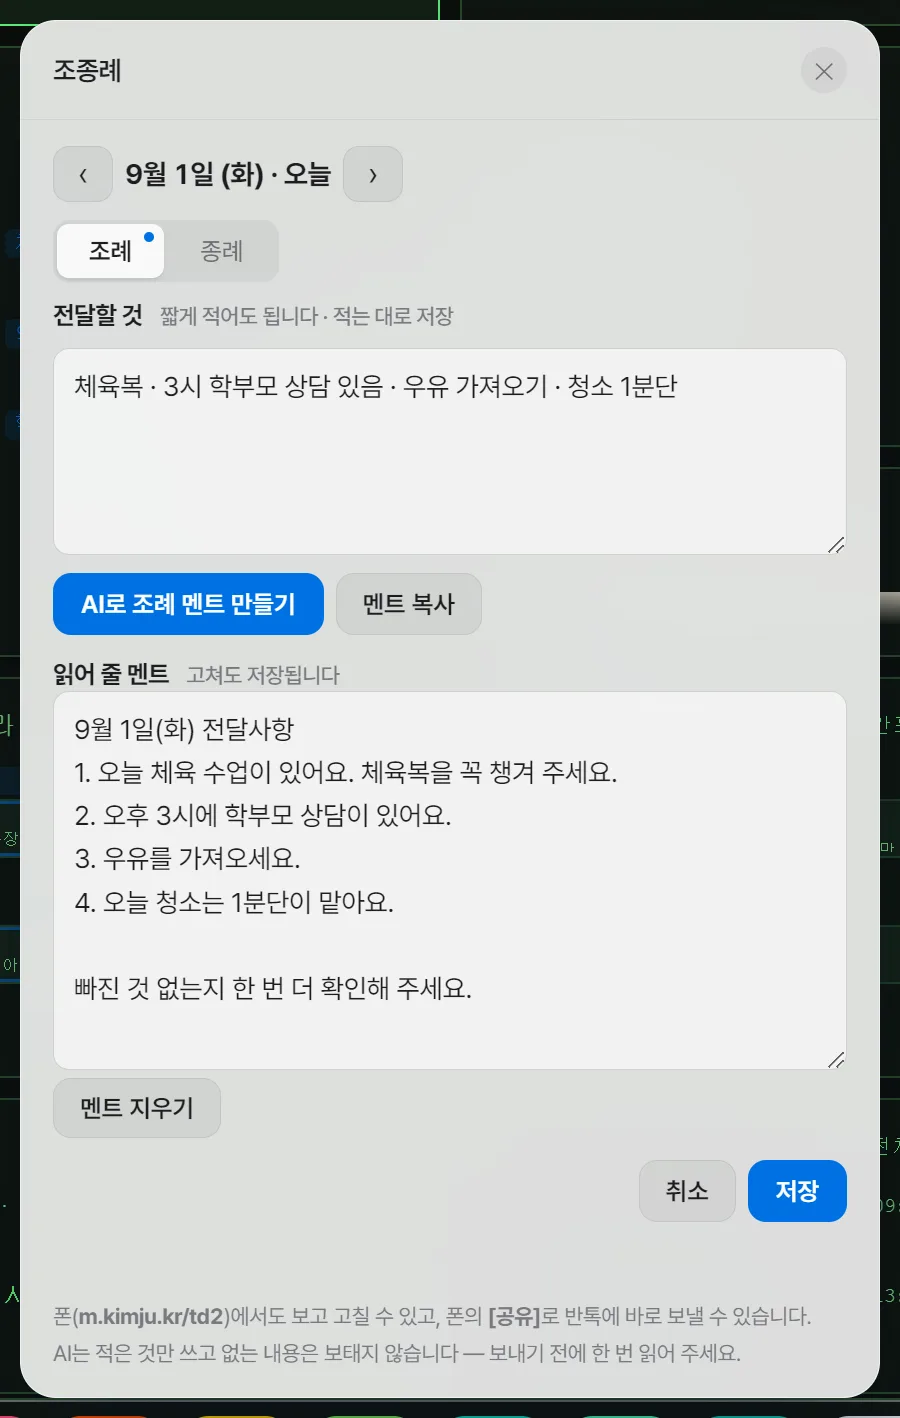
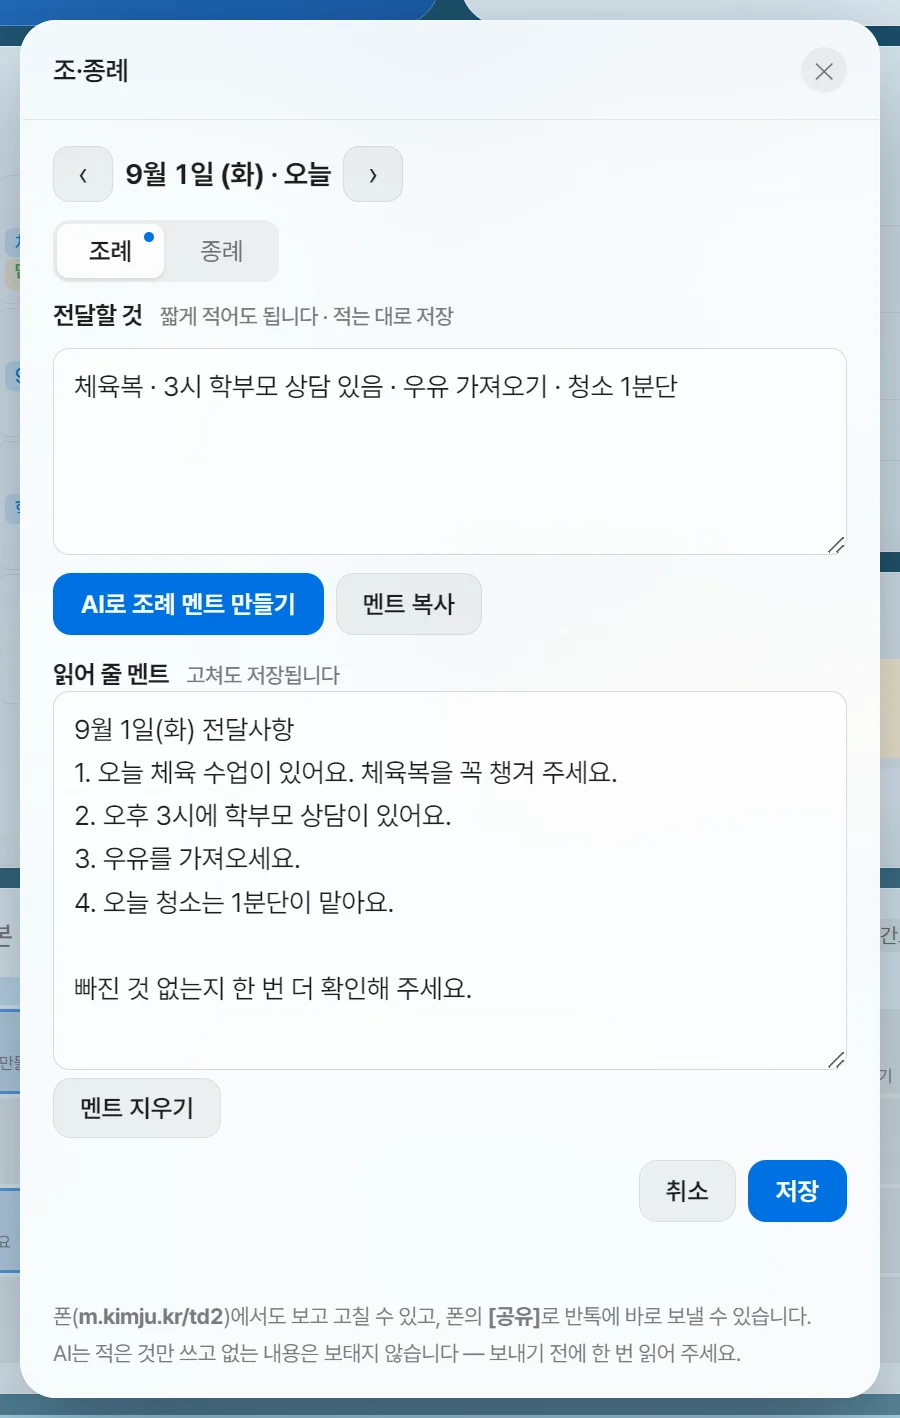
td2 설명서 — 이름을 「조·종례」로 통일
- 「조종례」와 「조례·종례」로 갈려 있던 23곳을 「조·종례」로
 - [조례 | 종례]처럼 각각을 가리키는 자리는 그대로
 - 찾기 상자 검색어에는 옛 표기 「조종례」도 남김
 - 창 제목이 바뀌어 7-17 그림 다시 찍음
 - 일지 v3.51에 한 줄

diff --git a/td2/index.html b/td2/index.html
@@ -461,7 +461,7 @@
       <a class="s2" href="#d-sign"><span class="num">7-14</span>전광판</a>
       <a class="s2" href="#d-drawer"><span class="num">7-15</span>서랍 · 고정 파일</a>
       <a class="s2" href="#d-clean"><span class="num">7-16</span>바탕화면 정리</a>
-      <a class="s2" href="#d-jojong"><span class="num">7-17</span>조례·종례</a>
+      <a class="s2" href="#d-jojong"><span class="num">7-17</span>조·종례</a>
       <a href="#phone"><span class="num">폰</span>폰 연동 (m.kimju.kr/td2)</a>
       <a href="#scfg"><span class="num">08</span>설정 낱낱이</a>
       <a href="#s7"><span class="num">09</span>위젯 모드 · 단축키</a>
@@ -570,7 +570,7 @@
         <a class="s2" href="#d-sign">7-14 · 전광판</a>
         <a class="s2" href="#d-drawer">7-15 · 서랍 · 고정 파일</a>
         <a class="s2" href="#d-clean">7-16 · 바탕화면 정리</a>
-        <a class="s2" href="#d-jojong">7-17 · 조례·종례</a>
+        <a class="s2" href="#d-jojong">7-17 · 조·종례</a>
         <a href="#phone">폰 · 폰 연동 (m.kimju.kr/td2)</a>
         <a href="#scfg">08 · 설정 낱낱이</a>
         <a href="#s7">09 · 위젯 모드 · 단축키</a>
@@ -711,7 +711,7 @@
             </div>
 
             <div class="fgroup"><h4>명렬 · 출결 · 생기부</h4>
-              <div class="fx" data-k="조례 종례 조종례 전달사항 알림장 반톡 카톡 공지 멘트 AI"><span class="fn">조례·종례 전달사항 <span class="ftag hid">v3.48~</span></span><span class="fw">독 <b>✉ 조종례</b> — 짧게 적으면 저장 · [AI로 멘트 만들기] · [복사]로 카톡에 · 폰에서 [공유] → <a href="#d-jojong">7-17</a></span></div>
+              <div class="fx" data-k="조례 종례 조종례 조·종례 전달사항 알림장 반톡 카톡 공지 멘트 AI"><span class="fn">조·종례 전달사항 <span class="ftag hid">v3.48~</span></span><span class="fw">독 <b>✉ 조·종례</b> — 짧게 적으면 저장 · [AI로 멘트 만들기] · [복사]로 카톡에 · 폰에서 [공유] → <a href="#d-jojong">7-17</a></span></div>
               <div class="fx" data-k="비담임 담임 아님 담임 안 맡음 0학년 0반 교과"><span class="fn">비담임 <span class="ftag hid">v3.48~</span></span><span class="fw">설정 [학교] → 담임반 줄의 <b>[비담임]</b> — 출결은 명렬에 넣은 반으로, 생기부 학반 칸은 비워 둡니다. 학년·반을 0으로 적어도 비담임으로 봅니다</span></div>
               <div class="fx" data-k="명렬 학생 이름 등록 붙여넣기 번호"><span class="fn">명렬 만들기</span><span class="fw">독 <b>◫ 명렬</b> → 아래에서 학반(<b>「3-2」 꼴</b>)과 이름(여러 명은 <b>쉼표로</b>). <b>「3 홍길동」처럼 적으면 그 번호로</b> 들어갑니다. 엑셀 명단은 [📥 파일에서 불러오기]로</span></div>
               <div class="fx" data-k="학생 여러명 고르기 모으기 특수반 방과후 빼기 지우기 전학 한꺼번에"><span class="fn">여러 반 학생을 모으기 · 여러 명 빼기 <span class="ftag hid">숨은 자리</span></span><span class="fw">명렬 → <b>[여러 명 고르기]</b> → 이름을 눌러 고른 뒤 <b>[고른 N명 모으기]</b>. 특수반·방과후반처럼 흩어진 학생을 묶습니다(원래 반에서 빠지지 않습니다). 같은 자리의 <b>[고른 N명 빼기]</b>는 묻지 않고 빼니 6초 안에 [되돌리기]</span></div>
@@ -832,7 +832,8 @@
               <li><b>폰에서 체크 목록을 누를 수 있습니다</b> — 쪽지의 네모를 눌러 켜고 끄면 PC에 그대로 → <a href="#phone">폰 연동</a></li>
               <li>꾸민 쪽지가 <b>폰에서도 색과 굵기 그대로</b> 보입니다</li>
               <li><b>전광판</b>에도 [취소] [저장] 단추 → <a href="#d-sign">7-14</a></li>
-              <li><b>조례·종례</b>의 [취소] [저장]을 창 맨 아래로 옮겼습니다 → <a href="#d-jojong">7-17</a></li>
+              <li><b>조·종례</b>의 [취소] [저장]을 창 맨 아래로 옮겼습니다 → <a href="#d-jojong">7-17</a></li>
+              <li>「조종례」와 「조례·종례」로 갈려 있던 이름을 <b>조·종례</b>로 맞췄습니다</li>
             </ul>
           </div>
 
@@ -842,7 +843,7 @@
             <div class="log-top"><span class="log-ver">v3.50</span><span class="log-date">2026. 9. 20.</span></div>
             <ul>
               <li><b>쪽지 글자를 골라서 꾸미기</b> — 끌어서 고른 데만 굵게·색·밑줄, 목록과 체크 목록까지 → <a href="#w-memo">6-7</a></li>
-              <li>글을 고치는 자리마다 <b>[취소] [저장]</b> 단추 — 쪽지 · 조종례 · 내선번호 · 진도까지</li>
+              <li>글을 고치는 자리마다 <b>[취소] [저장]</b> 단추 — 쪽지 · 조·종례 · 내선번호 · 진도까지</li>
               <li>품의 만들기 찍는 키가 <b>F9 · F10</b>으로 쉬워졌습니다 → <a href="#d-buy">7-2</a></li>
               <li><b>업무포털</b>이 안 될 때 무엇을 하면 되는지 알려 드리고, <b>구글 드라이브 허락</b>이 빠지면 띠로 알립니다</li>
             </ul>
@@ -859,7 +860,7 @@
           <div class="log-item">
             <div class="log-top"><span class="log-ver">v3.48</span><span class="log-date">2026. 9. 20.</span></div>
             <ul>
-              <li><b>조례·종례</b> — 독 ✉ 조종례 · 적으면 저장 · AI 멘트 · 카톡 복사 · 폰 [공유] → <a href="#d-jojong">7-17</a></li>
+              <li><b>조·종례</b> — 독의 <b>✉</b>로 열기 · 적으면 저장 · AI 멘트 · 카톡 복사 · 폰 [공유] → <a href="#d-jojong">7-17</a></li>
               <li><b>수업 전 알림</b> — 모든 교시(초등) · 1분 전 · 큰 팝업/화면 전체 · 목소리(여자·남자) · 모니터 고르기 → <a href="#w-ttalm">6-1</a></li>
               <li><b>학반 시간표 칸 고치기</b> · <b>시계 13가지</b> · <b>새 설정 창</b> · <b>[비담임]</b> · 폰 캘린더에 교무실·업무 일정표</li>
             </ul>
@@ -2853,7 +2854,7 @@
       <section id="s6b">
         <div class="sec-head">
           <div class="sec-num">7</div>
-          <div><h2>독에서 여는 것들</h2><p>AI 도우미 · 품의 · 생기부 · 명렬 · 출결 · 내선번호 · 즐겨찾기 · 전광판 · 서랍 · 바탕화면 정리 · 조례·종례.</p></div>
+          <div><h2>독에서 여는 것들</h2><p>AI 도우미 · 품의 · 생기부 · 명렬 · 출결 · 내선번호 · 즐겨찾기 · 전광판 · 서랍 · 바탕화면 정리 · 조·종례.</p></div>
         </div>
 
         <figure class="shot"><img src="shots/56-dock.webp" width="1100" height="151" alt="독(Dock)" loading="lazy"><figcaption><b>독</b> — 왼쪽부터 AI 도우미 · 생기부 도우미 · 출결 · 전광판 · 즐겨찾기 · 명렬 · 내선번호 · 설정, 그리고 서랍들과 휴지통. 아이콘에 <b>마우스를 올리면</b> 이름이 뜹니다.</figcaption></figure>
@@ -2902,7 +2903,7 @@
           <a href="#d-sign"><span class="n">7-14</span><span>전광판</span></a>
           <a href="#d-drawer"><span class="n">7-15</span><span>서랍 · 고정 파일</span></a>
           <a href="#d-clean"><span class="n">7-16</span><span>바탕화면 정리</span></a>
-          <a href="#d-jojong"><span class="n">7-17</span><span>조례·종례</span></a>
+          <a href="#d-jojong"><span class="n">7-17</span><span>조·종례</span></a>
         </nav>
 
         <!-- ── 7-1 AI 도우미 ── -->
@@ -3501,13 +3502,13 @@
           </div>
         </div>
 
-        <!-- ── 7-17 조례·종례 ── -->
-        <h3 class="wh" id="d-jojong"><span class="n">7-17</span>✉ 조례·종례 — 전달사항 적기 · AI 멘트 · 카톡으로 <span class="ftag hid">v3.48~</span></h3>
+        <!-- ── 7-17 조·종례 ── -->
+        <h3 class="wh" id="d-jojong"><span class="n">7-17</span>✉ 조·종례 — 전달사항 적기 · AI 멘트 · 카톡으로 <span class="ftag hid">v3.48~</span></h3>
         <div class="feat">
           <img src="shots/57-jojong.webp" width="900" height="1418" alt="조례 종례 창 — 전달할 것과 AI가 만든 멘트" loading="lazy" style="max-width:440px;width:100%;height:auto;margin:14px auto 0;display:block" />
           <div class="feat-b">
             <h4>짧게 적으면 저장 · 멘트로 정리 · 복사</h4>
-            <span class="where">독 <b>✉ 조종례</b> — 오전엔 조례, 오후엔 종례로 열림</span>
+            <span class="where">독 <b>✉ 조·종례</b> — 오전엔 조례, 오후엔 종례로 열림</span>
             <ol class="how">
               <li>위 날짜 옆 화살표로 날을 옮기고 <strong>[조례 | 종례]</strong>를 고릅니다(적어 둔 쪽엔 파란 점)</li>
               <li><strong>전달할 것</strong>에 «체육복 · 3시 상담 · 우유» 처럼 짧게 적습니다 — 적는 대로 저장됩니다</li>
@@ -3519,7 +3520,7 @@
               <li>AI는 <b>적은 것만</b> 씁니다 — 없는 이유·장소·시간은 보태지 않습니다. 그래도 보내기 전에 한 번 읽어 주세요</li>
               <li>60일이 지난 기록은 저절로 지워집니다</li>
               <li><b>폰</b>(m.kimju.kr/td2) [오늘] 탭에서도 보고 고치고, <strong>[공유]</strong>로 반톡에 바로 보낼 수 있습니다. 폰의 [고치기]는 칸 하나만 보입니다 — 멘트가 있으면 멘트 칸, 없으면 적는 칸(나머지는 «보기 ▾»로 펼침) → <a class="link" href="#phone">폰 연동</a></li>
-              <li>독에 안 보이면 설정 [독]에서 <b>조종례</b>를 켜세요</li>
+              <li>독에 안 보이면 설정 [독]에서 <b>조·종례</b>를 켜세요</li>
             </ul>
           </div>
         </div>
@@ -3565,7 +3566,7 @@
               <thead><tr><th>탭</th><th>보기</th><th>적기 · 고치기</th></tr></thead>
               <tbody>
                 <tr><th>캘린더</th><td>월 달력(날짜 칸 안 일정 막대 · 넘치면 +N) · 고른 날의 일정·할 일 · 다가오는 일정 · D-Day · <b>온라인 교무실·업무 일정표</b>(PC 달력 ⚙에서 켠 것만, 같은 색 · PC v3.48~)</td><td>[할 일 | 일정] 골라 적기(달력 아이콘으로 날짜, 일정은 시각·끝나는 날) · 할 일 체크(가운데 줄) · 할 일 눌러 고치기·지우기 · 내 일정 끝냄(반복 일정은 그 날만) · D-Day 추가</td></tr>
-                <tr><th>오늘</th><td>지금 몇 교시·다음 수업 · 시간표(«○요일 시간표로» 표시) · <b>오늘 할 일</b>(마감이 오늘이거나 지난 것이 있을 때만, 5개까지) · 급식·알레르기 · 진도 · 이달 초과근무 · <b>조례·종례</b>(PC v3.48~)(급식·초과근무·조종례는 설정에서 끌 수 있음)</td><td>조례·종례 보기·적기·<b>[공유]</b>로 카톡 반톡에 · 진도 줄 눌러 차시·메모·휴강 기록(지난 7일 안 적은 칸은 «안 적음») · 초과근무 적기(+30분·+1시간·사유)</td></tr>
+                <tr><th>오늘</th><td>지금 몇 교시·다음 수업 · 시간표(«○요일 시간표로» 표시) · <b>오늘 할 일</b>(마감이 오늘이거나 지난 것이 있을 때만, 5개까지) · 급식·알레르기 · 진도 · 이달 초과근무 · <b>조·종례</b>(PC v3.48~)(급식·초과근무·조·종례는 설정에서 끌 수 있음)</td><td>조·종례 보기·적기·<b>[공유]</b>로 카톡 반톡에 · 진도 줄 눌러 차시·메모·휴강 기록(지난 7일 안 적은 칸은 «안 적음») · 초과근무 적기(+30분·+1시간·사유)</td></tr>
                 <tr><th>메모</th><td>PC 메모 카드의 쪽지 — <b>꾸민 글자·색·목록도 그대로</b>(v3.51~)</td><td>메모 쓰기(첫 메모 카드로) · 눌러서 고치기·지우기 · <b>체크 목록의 네모를 눌러</b> 켜고 끄기(v3.51~)</td></tr>
                 <tr><th>학생 <span class="ftag off">[학생 자료도]</span></th><td>반 고르기(담임반이 맨 앞) · 날짜별 출결 · 학생마다 상담·활동기록</td><td>출결(구분·종류·교시·사유) · <b>여러 명 골라 한꺼번에</b> 출결 / 출석으로 · 상담 · 활동기록(<b>구분 고르기</b> — 행발·과세특+과목·자율·동아리·진로, 생기부 칩 · PC v3.42~)</td></tr>
                 <tr><th>주간학습 <span class="ftag off">[주간학습안내도]</span></th><td>지난주·이번 주·다음 주 주간학습안내 — <b>하루</b>(요일마다 교시·내용·쪽수) · <b>주간</b> 표(평가 표시) · <b>과목별</b> · <b>원본</b>(사진·PDF는 그대로, 한글·워드는 표 글로) · 안내 문구</td><td>보기만(고치기는 PC에서) · PC v3.43~</td></tr>
@@ -3619,7 +3620,7 @@
             <ul>
               <li><b>보기 편하게</b> — <b>글자 크기</b> 5단계(아주 작게 · 작게 · 보통 · 크게 · 아주 크게) · <b>화면 색</b> 18가지(기본 · 다크 · 네이비 · 칠판 · 종이 · 고대비 + 스킨 12가지: 노션 · 모눈노트 · 다이어리 · 벚꽃 · 딸기우유 · 코랄선셋 · 스크랩북 · 수채화 · 버터토스트 · 민트초코 · 라벤더 · 네온게임 — 누르면 바로 바뀝니다) · <b>글씨체</b>(스킨 글꼴 · Pretendard · 기기 기본 · 나눔고딕 · IBM Plex — 스킨마다 제목 글꼴이 다르고, 따로 고르면 그 글꼴로)</li>
               <li><b>캘린더 탭</b> — 순서 <b>일정 먼저</b>(기본) / <b>할 일 먼저</b> · 달력 크기 보통 / 크게 / 아주 크게(화면을 채우고 일정 제목 두 줄) · 토·일 넣기/빼기 · 주 표시(1주·2주…)</li>
-              <li><b>오늘 탭</b> — <b>맨 위 칸</b>(시간표 · 할 일 · 급식 · 진도 · 초과근무 · 조종례 중 하나를 맨 위로, 조종례는 기본으로 맨 아래) · 급식 · 초과근무 · 조종례 <b>보기 / 안 보기</b>. 초과근무를 끄면 폰에서 적는 칸도 숨고, PC에서는 그대로 적습니다</li>
+              <li><b>오늘 탭</b> — <b>맨 위 칸</b>(시간표 · 할 일 · 급식 · 진도 · 초과근무 · 조·종례 중 하나를 맨 위로, 조·종례는 기본으로 맨 아래) · 급식 · 초과근무 · 조·종례 <b>보기 / 안 보기</b>. 초과근무를 끄면 폰에서 적는 칸도 숨고, PC에서는 그대로 적습니다</li>
               <li><b>탭·화면 동작</b> — 첫 화면 탭(마지막 · 캘린더 · 오늘 · 메모 · 학생) · 아래 탭 늘 보이기 / 맨 아래에서만 / 올리면 나타나기(내리는 동안 숨고, 조금 올리면 나타남)</li>
               <li>[화면 설정 처음대로] — 화면 설정만 처음으로 돌립니다</li>
               <li><b>[앱으로 설치]</b>(몇 번이든 다시) · 계정(이메일·로그아웃) · 자료를 올린 PC 이름·판·시각</li>
@@ -3694,8 +3695,8 @@
           <div class="tabmap-b">
             <h4>독 — 위치 · 아이콘 · 서랍 · 바로가기</h4>
             <dl>
-              <dt>독 위치</dt><dd>아래 · 왼쪽 · 오른쪽 · <b>안 씀</b> <span class="val">(기본 아래)</span> — 「안 씀」을 고르면 함께 사라지는 것(AI 비서·생기부·전광판·즐겨찾기·명렬·내선번호·바탕화면 정리·조종례·서랍·프로그램 바로가기)과 「설정은 트레이 아이콘 우클릭으로」가 빨갛게 안내됩니다. 그 자리까지 위젯이 넓게 씁니다.</dd>
-              <dt>독에 표시할 기능과 순서</dt><dd>내장 9개(AI 도우미 · 생기부 도우미 · 출결 · 전광판 · 즐겨찾기 · 명렬 · 내선번호 · 바탕화면 정리 · 조종례, 기본 모두 켬)를 스위치로 켜고 끄고, ▲▼로 바로가기·즐겨찾기와 섞어 옮깁니다. 꺼 둔 것은 목록 맨 아래에 흐리게 남아요(⚙ 설정은 늘 맨 뒤).</dd>
+              <dt>독 위치</dt><dd>아래 · 왼쪽 · 오른쪽 · <b>안 씀</b> <span class="val">(기본 아래)</span> — 「안 씀」을 고르면 함께 사라지는 것(AI 비서·생기부·전광판·즐겨찾기·명렬·내선번호·바탕화면 정리·조·종례·서랍·프로그램 바로가기)과 「설정은 트레이 아이콘 우클릭으로」가 빨갛게 안내됩니다. 그 자리까지 위젯이 넓게 씁니다.</dd>
+              <dt>독에 표시할 기능과 순서</dt><dd>내장 9개(AI 도우미 · 생기부 도우미 · 출결 · 전광판 · 즐겨찾기 · 명렬 · 내선번호 · 바탕화면 정리 · 조·종례, 기본 모두 켬)를 스위치로 켜고 끄고, ▲▼로 바로가기·즐겨찾기와 섞어 옮깁니다. 꺼 둔 것은 목록 맨 아래에 흐리게 남아요(⚙ 설정은 늘 맨 뒤).</dd>
               <dt>아이콘 모양</dt><dd>아이콘 단추를 <b>누를 때마다</b> 그림 → 기호 → 글자 → 그림으로 돌아갑니다. 서랍을 「글자」로 두면 서랍마다 제 이름이 나옵니다. <b>[전부 그림으로]</b>로 한 번에 되돌리기.</dd>
               <dt>아이콘 세트</dt><dd>기본 · 흑연 · 리넨 · 유리 · 심해 · 세이지 6벌 <span class="val">(기본 「기본」)</span> — 위에서 기호·글자로 바꿔 둔 아이콘은 덮어쓰지 않습니다.</dd>
               <dt>서랍에 파일 개수 보이기</dt><dd><span class="val">(기본 켜짐)</span> — 끄면 그냥 폴더로 보입니다.</dd>
